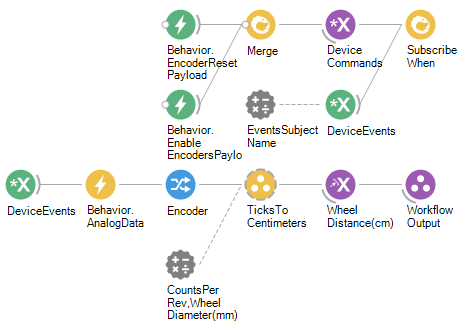
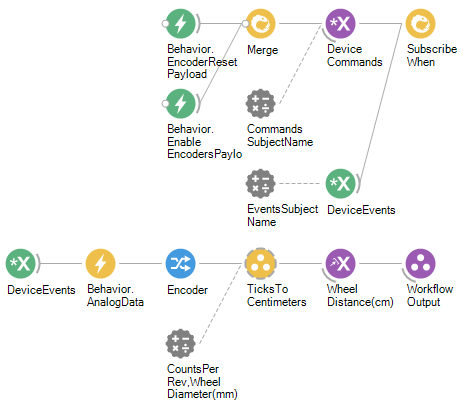
Externalised CommandsSubjectName

Changed region(s): [[0.0, 0.0, 0.9978, 0.7692], [0.3326, 0.7692, 0.514, 1.0]]

diff --git a/utilities/running-wheel/README.md b/utilities/running-wheel/README.md
@@ -19,13 +19,14 @@ The properties of this workflow allow the user to define the encoder resolution 
 | **Property Name**       | **Input/Output** | **Description**                                                           |
 |-------------------------|------------------|---------------------------------------------------------------------------|
 | `EventsSubjectName`     | Input            | The name of the subject that receives event messages from the device.     |
-| `WheelDistance(cm)`     | Output           | The total distance the wheel has moved (in centimeters).                    |
+| `CommandsSubjectName`   | Output           | The name of the subject that sends commands to the device.                |
+| `WheelDistance(cm)`     | Output           | The total distance the wheel has moved (in centimeters).                  |
 
 ### Configuration Parameters
 | **Property Name**       | **Input/Output** | **Description**                                                           |
 |-------------------------|------------------|---------------------------------------------------------------------------|
 | `CountsPerRev`          | Input            | The tick counts per revolution of the wheel.                              |
-| `WheelDiameter(mm)`     | Input            | The wheel diameter (in millimeters).                                        |
+| `WheelDiameter(mm)`     | Input            | The wheel diameter (in millimeters).                                      |
 
 ## Dependencies
 ### Bonsai:
